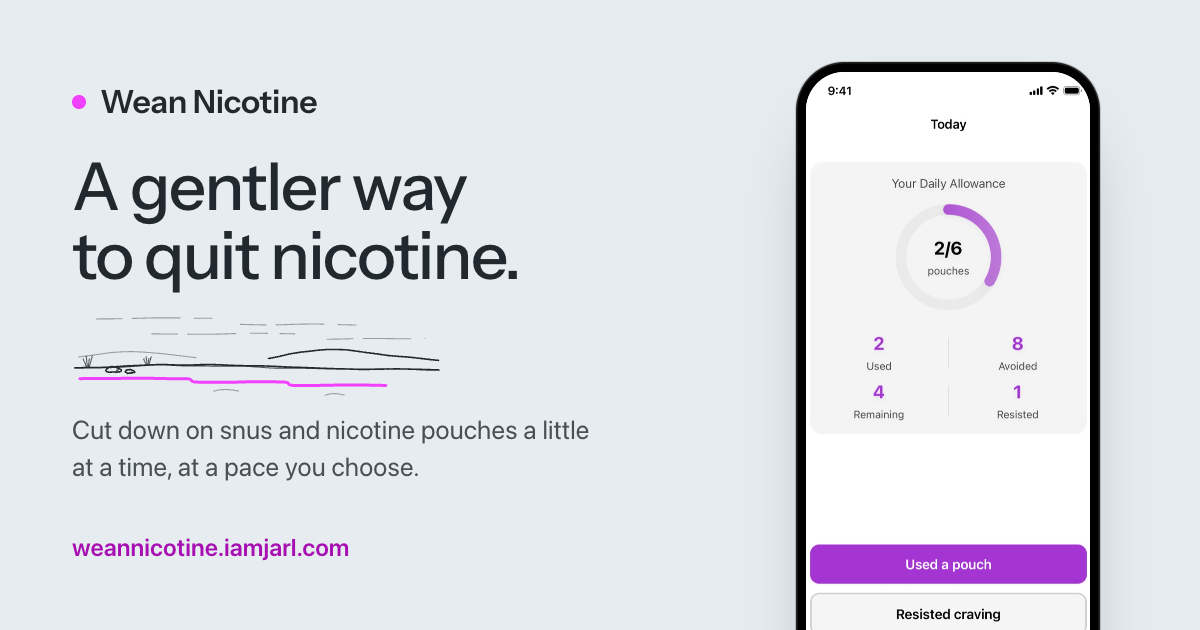
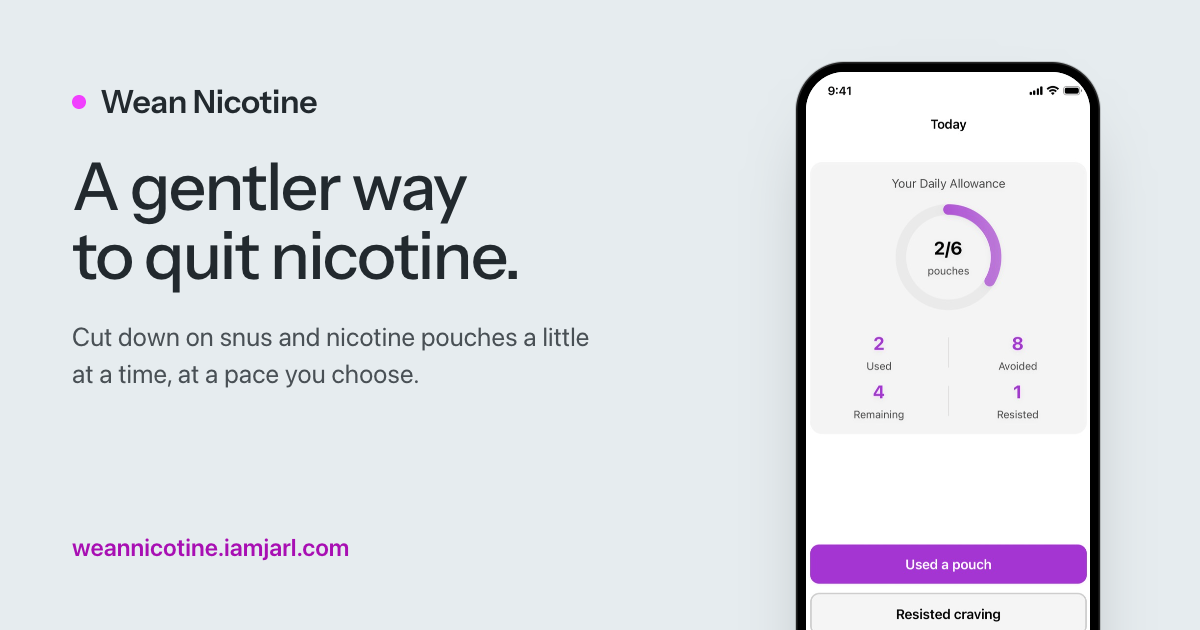
fix(website): the coast drawings come off the page until they are redrawn (#405)
The owner found the drawings not good enough once the page was live, and
everything else good. They are generated in the design system, so this
repo takes them off and asks there for new ones (iamjarl-design#90):

- The hero's shoreline, the statements' three drawings, the breakwater in
  the tour, the harbour steps, the boat and the low tide are gone.
- The three statements are the kit's trait cards, read top-down.
- How the plan works is a heading and its two paragraphs. The staircase
  line in the drawings' loose stroke is gone too; the example plan stays
  as its caption and the week-by-week table.
- "Illustrations drawn with AI" leaves the footer with the drawings. The
  only line left is the underline under the maker's signature, which the
  page writes itself.
- The social card is remade without the shoreline.

sync-design.mjs still brings the drawings and loose.js, so they can go
back in with one sync when the design system has new ones.

Changed region(s): [[0.0617, 0.5127, 0.4933, 0.6333], [0.0617, 0.6635, 0.4933, 0.6937], [0.0617, 0.7238, 0.3392, 0.754]]

diff --git a/website/src/i18n/home-copy.ts b/website/src/i18n/home-copy.ts
@@ -65,7 +65,6 @@ export interface HomeCopy {
   };
   maker: { note: string; signature: string };
   faq: { title: string; items: { question: string; answer: string }[] };
-  fineprint: { illustrations: string };
 }
 
 const oneADayWeeks = (s: Staircase) => {
@@ -258,7 +257,6 @@ export const HOME_COPY: Record<Locale, HomeCopy> = {
         },
       ],
     },
-    fineprint: { illustrations: 'Illustrations drawn with AI' },
   },
 
   da: {
@@ -436,7 +434,6 @@ export const HOME_COPY: Record<Locale, HomeCopy> = {
         },
       ],
     },
-    fineprint: { illustrations: 'Illustrationer tegnet med AI' },
   },
 
   sv: {
@@ -614,7 +611,6 @@ export const HOME_COPY: Record<Locale, HomeCopy> = {
         },
       ],
     },
-    fineprint: { illustrations: 'Illustrationer ritade med AI' },
   },
 
   no: {
@@ -792,6 +788,5 @@ export const HOME_COPY: Record<Locale, HomeCopy> = {
         },
       ],
     },
-    fineprint: { illustrations: 'Illustrasjoner tegnet med AI' },
   },
 };

diff --git a/docs/ARCHITECTURE.md b/docs/ARCHITECTURE.md
@@ -235,8 +235,8 @@ Canonical implementation: [`lib/notifications.ts`](../lib/notifications.ts)
 The site is light only, on Wean's identity from the IAMJARL design system (#396): a misty grey-blue ground, charcoal text, the icon's magenta, Instrument Sans for headlines.
 
 - [`website/src/layouts/Layout.astro`](../website/src/layouts/Layout.astro): every page's frame: the head (meta, hreflang, JSON-LD), `<ij-nav>`, the guides list and `<ij-footer>`.
-- [`website/src/components/KitHome.astro`](../website/src/components/KitHome.astro): the home page in all four languages, the site brief's eight sections on the design system's marketing kit, with the coast drawings inlined. Its copy is in [`website/src/i18n/home-copy.ts`](../website/src/i18n/home-copy.ts); the Today loop and tour screens are made as in [`SITE_CAPTURES.md`](./SITE_CAPTURES.md).
-- [`website/src/components/Staircase.astro`](../website/src/components/Staircase.astro) and [`website/src/lib/staircase.ts`](../website/src/lib/staircase.ts): the taper as a staircase, computed with the app's own `lib/taper-plan.ts` and drawn in the drawings' loose stroke at build time.
+- [`website/src/components/KitHome.astro`](../website/src/components/KitHome.astro): the home page in all four languages, the site brief's eight sections on the design system's marketing kit. The coast drawings are off the page until they are redrawn (iamjarl-design#90). Its copy is in [`website/src/i18n/home-copy.ts`](../website/src/i18n/home-copy.ts); the Today loop and tour screens are made as in [`SITE_CAPTURES.md`](./SITE_CAPTURES.md).
+- [`website/src/components/Staircase.astro`](../website/src/components/Staircase.astro) and [`website/src/lib/staircase.ts`](../website/src/lib/staircase.ts): an example taper, computed with the app's own `lib/taper-plan.ts`, as a caption and a week-by-week table. Its staircase line in the drawings' loose stroke is off the page with the drawings.
 - [`website/scripts/sync-design.mjs`](../website/scripts/sync-design.mjs): copies one design-system release into the site (`public/iamjarl-design/`, `src/design/`, `src/store/`), checking each file against the release's SRI hashes. The site serves it from its own origin and loads nothing from a third party.
 - [`website/src/components/StoreButton.astro`](../website/src/components/StoreButton.astro): the store button from the design system's registry: price, OS floor, campaign link and the `store-click` event.
 - [`website/src/styles/tokens.css`](../website/src/styles/tokens.css): the site's own variable names, pointed at the design system's tokens, for the pages outside the home page.
